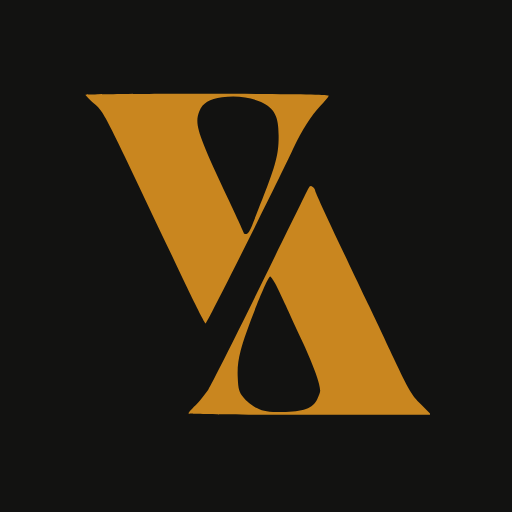
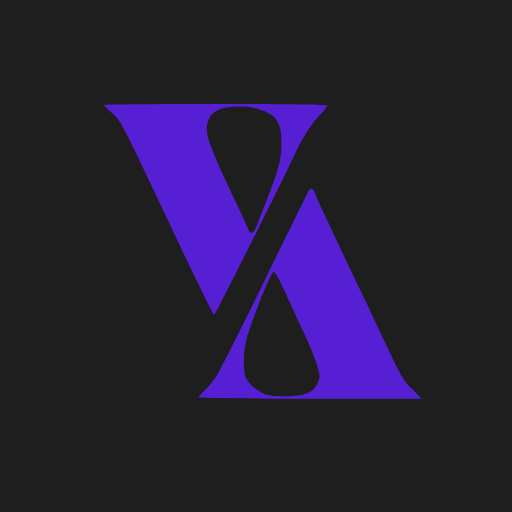
style: restore brand purple accent

Changed region(s): [[0.1562, 0.1562, 0.6562, 0.625], [0.375, 0.3438, 0.8438, 0.8125]]

diff --git a/src/components/welcomeDeck.vue b/src/components/welcomeDeck.vue
@@ -11,7 +11,7 @@
     <div class="deck-poster deck-poster--mid">
       <svg viewBox="0 0 240 360" preserveAspectRatio="xMidYMid slice">
         <rect width="240" height="360" fill="#6e2a2f" />
-        <circle cx="76" cy="128" r="56" fill="#d9825a" />
+        <circle cx="76" cy="128" r="56" fill="#e0c9a0" />
         <rect y="230" width="240" height="130" fill="#3a1518" />
         <path d="M48 230h144l-20 34H70z" fill="#1f0b0d" />
       </svg>
@@ -21,10 +21,10 @@
       <div class="deck-poster--front">
         <svg viewBox="0 0 288 400" preserveAspectRatio="xMidYMid slice">
           <rect width="288" height="400" fill="#0e0d0c" />
-          <path d="M144 400 32 136h224z" fill="#e8a33d" opacity=".1" />
+          <path d="M144 400 32 136h224z" fill="#8b83ff" opacity=".1" />
           <rect x="32" y="40" width="224" height="124" rx="2" fill="#f4ecdf" />
-          <path d="M32 164V124l64-34 42 28 50-40 68 46v40z" fill="#c9861f" />
-          <circle cx="204" cy="76" r="14" fill="#e8a33d" />
+          <path d="M32 164V124l64-34 42 28 50-40 68 46v40z" fill="#3d34d6" />
+          <circle cx="204" cy="76" r="14" fill="#8b83ff" />
           <g fill="#1d1a16">
             <path d="M0 300c0-18 14-30 32-30s32 12 32 30v100H0z" />
             <path d="M72 300c0-18 14-30 32-30s32 12 32 30v100H72z" />

diff --git a/src/primeVueStyles.ts b/src/primeVueStyles.ts
@@ -7,19 +7,19 @@ import Aura from "@primeuix/themes/aura";
  * (ver docs/guia-de-estilos.pdf). Si cambias uno, cambia el otro.
  */
 
-// Ámbar de marquesina
-const amber = {
-  50: "#fbf3e4",
-  100: "#f6e4c4",
-  200: "#f5c77e",
-  300: "#f0b55c",
-  400: "#e8a33d",
-  500: "#c9861f",
-  600: "#ad6e12",
-  700: "#96580a",
-  800: "#7d4907",
-  900: "#663b05",
-  950: "#3a2103",
+// Índigo de marca
+const indigo = {
+  50: "#f0efff",
+  100: "#e3e1ff",
+  200: "#cac6ff",
+  300: "#aba5ff",
+  400: "#8b83ff",
+  500: "#6c62f5",
+  600: "#5248e6",
+  700: "#3d34d6",
+  800: "#3029ad",
+  900: "#282487",
+  950: "#18154f",
 };
 
 // Grafito neutro con un punto cálido
@@ -50,7 +50,7 @@ const MyPreset = definePreset(Aura, {
     },
   },
   semantic: {
-    primary: amber,
+    primary: indigo,
     focusRing: {
       width: "2px",
       style: "solid",
@@ -115,7 +115,7 @@ const MyPreset = definePreset(Aura, {
         surface: graphite,
         primary: {
           color: "{primary.400}",
-          contrastColor: "#1a1206",
+          contrastColor: "#0f0e17",
           hoverColor: "{primary.300}",
           activeColor: "{primary.200}",
         },

diff --git a/src/style.css b/src/style.css
@@ -72,11 +72,11 @@
   --text-muted: #55534d;  /*  7.1:1 */
   --text-subtle: #6b6963; /*  5.1:1 – mínimo para texto */
 
-  /* Acento: ámbar de marquesina, el mismo tono que las estrellas */
-  --primary: #96580a;       /* 5.3:1 sobre fondo */
-  --primary-hover: #7d4907;
-  --primary-active: #663b05;
-  --on-primary: #ffffff;
+  /* Marca */
+  --primary: #3d34d6;       /* 7.3:1 sobre fondo */
+  --primary-hover: #3029ad;
+  --primary-active: #282487;
+  --on-primary: #ffffff;    /* 7.9:1 sobre primary */
   --primary-soft: #f0efeb;  /* fondo neutro de estados seleccionados */
   --accent: #1c1b18;
   --on-accent: #ffffff;
@@ -143,10 +143,10 @@
   --text-muted: #a9a7a1;  /*  7.8:1 */
   --text-subtle: #908e88; /*  5.7:1 */
 
-  --primary: #e8a33d;       /* 8.7:1 */
-  --primary-hover: #f0b55c;
-  --primary-active: #f5c77e;
-  --on-primary: #1a1206;    /* 8.6:1 sobre primary */
+  --primary: #8b83ff;       /* 6.1:1 */
+  --primary-hover: #a39dff;
+  --primary-active: #bdb8ff;
+  --on-primary: #0f0e17;    /* 6.2:1 sobre primary */
   --primary-soft: #232321;
   --accent: #edebe6;
   --on-accent: #121211;

diff --git a/index.html b/index.html
@@ -6,7 +6,7 @@
   <meta name="viewport" content="width=device-width, initial-scale=1.0">
   <title>Movies X Movies</title>
   <link rel="stylesheet" href="src/style.css">
-  <meta name="theme-color" content="#F7F6F3" media="(prefers-color-scheme: light)" />
+  <meta name="theme-color" content="#3D34D6" media="(prefers-color-scheme: light)" />
   <meta name="theme-color" content="#121211" media="(prefers-color-scheme: dark)" />
   <meta name="description" id="meta-description"
     content="Share your favorite movies and discover new ones with Movies X Movies." />
